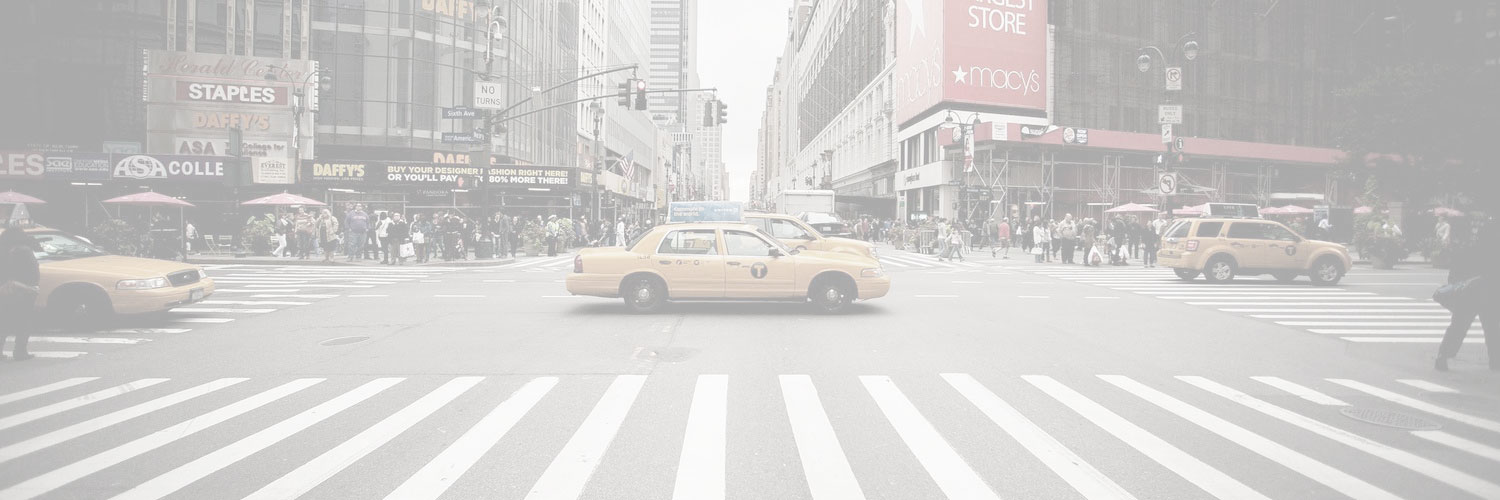
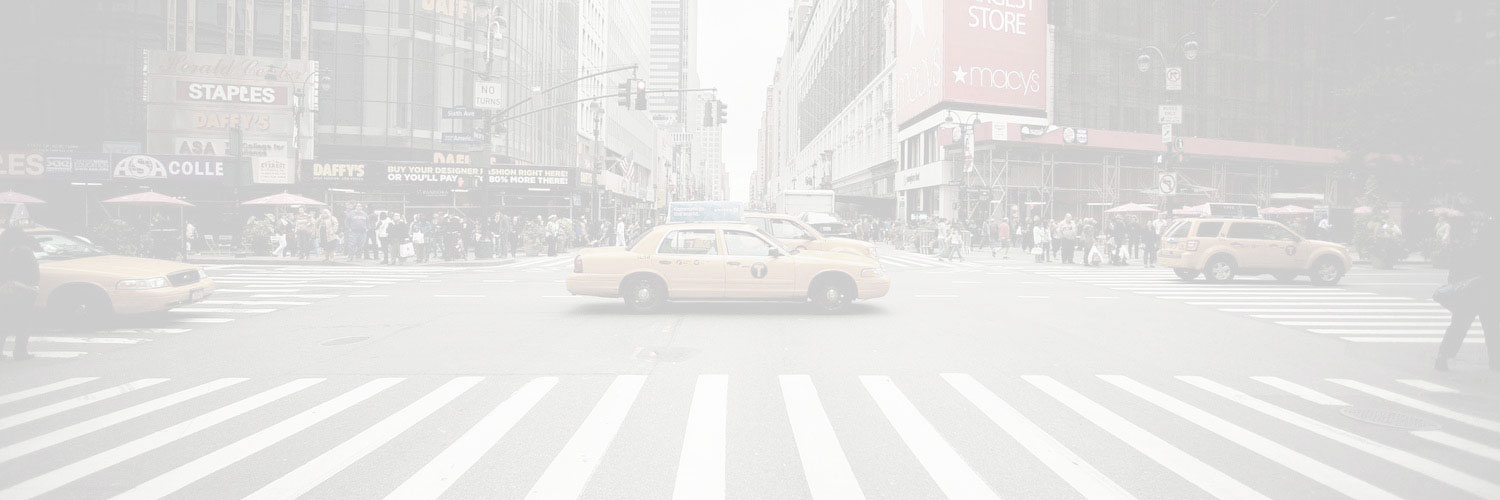
Adds additional resturant info

diff --git a/src/newApp.js b/src/newApp.js
@@ -11,32 +11,51 @@ var LunchPicker = React.createClass({
 		    "name": "Choza",
 		    "address": "66 Madison Avenue, New York, NY 10016",
 		    "phone": "212-213-0708",
-		    "type": "Mexican"
+		    "type": "Mexican",
+		    "link": "http://www.seamless.com/food-delivery/choza-new-york-city.18160.r?a=966"
 		},
 		{
 		    "name": "Dos Toros",
 		    "address": "295 Park Ave South, New York, NY 10010",
 		    "phone": "347-946-6225",
-		    "type": "Mexican"
+		    "type": "Mexican",
+		    "link": "http://www.dostoros.com/"
 		},
 		{
 		    "name": "DiDi Dumpling",
 		    "address": "38 Lexington Avenue, New York, NY 10010",
 		    "phone": "212-466-6618",
-		    "type": "Chinese"
+		    "type": "Chinese",
+		    "link": "http://www.dididumplings.com/"
 		},
 		{
 		    "name": "Mamagyro",
 		    "address": "820 Broadway, New York, NY 10003",
 		    "phone": "212-477-1717",
-		    "type": "Greek"
+		    "type": "Greek",
+		    "link": "http://www.seamless.com/food-delivery/mamagyro-new-york-city.17908.r"
 
 		},
 		{
 		    "name": "Tiffin Wallah",
 		    "address": "127 E 28th Street, New York, NY 10016",
 		    "phone": "212-685-7301",
-		    "type": "Indian"
+		    "type": "Indian",
+		    "link": "http://www.seamless.com/food-delivery/tiffin-wallah-new-york-city.8113.r?a=966"
+		},
+		{
+		    "name": "Sophie's Cuban Cuisine",
+		    "address": "28 E 23rd Street, New York, NY 10010",
+		    "phone": "212-260-8884",
+		    "type": "Cuban",
+		    "link": "http://www.seamless.com/food-delivery/sophie-cuban-cuisine-23rd-st-new-york-city.11353.r?a=966"
+		},
+		{
+		    "name": "Chop't",
+		    "address": "18 E 23rd St, New York, NY 10010",
+		    "phone": "646-755-7837",
+		    "type": "Salad Bar",
+		    "link": "http://www.seamless.com/food-delivery/chop-t-creative-salad-co-flatiron-new-york-city.22115.r"
 		}
 		];
 
@@ -56,34 +75,42 @@ var LunchPicker = React.createClass({
 
 	render: function() {
 		var randomRestaurant = this.state.randomRestaurant;
-		var randomRestaurantInfo;
+		var restaurantInfo;
 		if(randomRestaurant) {
-			randomRestaurantInfo = (
-				<div className="restaurant-name-wrapper">
-	                <h2>{randomRestaurant.name}</h2>
-	                <p>Address: <span>{randomRestaurant.address}</span></p>
-	                <p>Phone: <span>{randomRestaurant.phone}</span></p>
-	                <p>Type: <span>{randomRestaurant.type}</span></p>
+			restaurantInfo = (
+				<div className="restaurant-info">
+	                <h2 className="restaurant-name">{randomRestaurant.name}</h2>
+	                <p><strong className="info-label">Address:</strong> <span>{randomRestaurant.address}</span></p>
+	                <p><strong className="info-label">Phone:</strong> <span>{randomRestaurant.phone}</span></p>
+	                <p><strong className="info-label">Type:</strong> <span>{randomRestaurant.type}</span></p>
+	                <p><a className="order-link" href={randomRestaurant.link} target="_blank">ORDER THAT SHIT!</a></p>
 				</div>
 			);
 		}
 
 		return (
-			<div className="container">
+			<div className="container lunchpicker-container">
 				<div className="row">
 					<div className="col-xs-12">
-						<div className="button-wrapper">
-							<h1>What the f*%$ should ATTCK eat for lunch!?</h1>
-							<button onClick={this.generateRandomRestaurant }>Find me something</button>
+						<div className="wtf-wrapper">
+							<h1>
+								What the f&amp;*k should <br />
+								<img src="img/attck_logo.png" className="attck-logo" /> <br />
+								eat for lunch!?
+							</h1>
+							<button className="btn" onClick={this.generateRandomRestaurant }>
+								Find me something
+							</button>
 						</div>
-						{ randomRestaurantInfo }
+						<div className="restaurant-info-wrapper">
+							{ restaurantInfo }
+						</div>
 					</div>
 				</div>
 			</div>
 		);
 	}
 });
-
 
 React.render (
 	<LunchPicker />,

diff --git a/css/style.css b/css/style.css
@@ -69,57 +69,31 @@ article, aside, details, figcaption, figure, footer, header, hgroup, main, menu,
 }
 
 /* line 1, ../sass/_global.scss */
-.attck-logo {
-  margin: 10px 0;
+body {
+  background: url("../img/taxis_1500x500_desat.jpg") no-repeat;
+  background-size: cover;
 }
 
-/* line 5, ../sass/_global.scss */
+/* line 6, ../sass/_global.scss */
 .btn {
   background-color: #222;
   color: #fff;
 }
-/* line 9, ../sass/_global.scss */
+/* line 10, ../sass/_global.scss */
 .btn:active, .btn:focus, .btn:hover {
   color: #fff;
 }
-/* line 15, ../sass/_global.scss */
+/* line 16, ../sass/_global.scss */
 .btn:hover {
   background-color: #ffcc05;
 }
 
-/* line 20, ../sass/_global.scss */
-.wtf-wrapper {
-  text-align: center;
-}
-
-/* line 24, ../sass/_global.scss */
+/* line 21, ../sass/_global.scss */
 .hide {
   display: none;
 }
 
-/* line 28, ../sass/_global.scss */
-.lunchpicker-container {
-  margin: 100px 0;
-}
-
-/* line 32, ../sass/_global.scss */
-.restaurant-info-wrapper {
-  text-align: center;
-  margin-top: 40px;
-}
-/* line 36, ../sass/_global.scss */
-.restaurant-info-wrapper .restaurant-name {
-  display: inline-block;
-  border-bottom: 2px solid black;
-  padding-bottom: 4px;
-}
-
-/* line 44, ../sass/_global.scss */
-.order-link {
-  cursor: pointer;
-}
-
-/* line 50, ../sass/_global.scss */
+/* line 27, ../sass/_global.scss */
 a:focus,
 .btn:focus,
 .btn:active:focus,
@@ -128,6 +102,39 @@ a:focus,
   -webkit-box-shadow: none !important;
   -moz-box-shadow: none !important;
   box-shadow: none !important;
+}
+
+/* line 37, ../sass/_global.scss */
+.lunchpicker-container {
+  margin-top: 100px;
+}
+/* line 40, ../sass/_global.scss */
+.lunchpicker-container .wtf-wrapper {
+  color: #000;
+  text-align: center;
+}
+/* line 44, ../sass/_global.scss */
+.lunchpicker-container .wtf-wrapper .attck-logo {
+  margin: 10px 0;
+}
+/* line 49, ../sass/_global.scss */
+.lunchpicker-container .restaurant-info-wrapper {
+  text-align: center;
+  margin-top: 40px;
+}
+/* line 53, ../sass/_global.scss */
+.lunchpicker-container .restaurant-info-wrapper .order-link {
+  cursor: pointer;
+  font-size: 20px;
+  font-weight: 700;
+  letter-spacing: 1px;
+  line-height: 30px;
+}
+/* line 61, ../sass/_global.scss */
+.lunchpicker-container .restaurant-info-wrapper .restaurant-name {
+  display: inline-block;
+  border-bottom: 2px solid black;
+  padding-bottom: 4px;
 }
 
 @font-face {

diff --git a/sass/_global.scss b/sass/_global.scss
@@ -1,5 +1,6 @@
-.attck-logo {
-	margin: 10px 0;
+body {
+	background: url('../img/taxis_1500x500_desat.jpg') no-repeat;
+	background-size: cover;
 }
 
 .btn {
@@ -17,32 +18,8 @@
 	}
 }
 
-.wtf-wrapper {
-	text-align: center;
-}
-
 .hide {
     display: none;
-}
-
-.lunchpicker-container {
-	margin: 100px 0;
-}
-
-.restaurant-info-wrapper {
-	text-align: center;
-	margin-top: 40px;
-
-	.restaurant-name {
-		display: inline-block;
-		border-bottom: 2px solid black;
-		padding-bottom: 4px;
-	}
-}
-
-
-.order-link {
-	cursor: pointer;
 }
 
 // This overrides Bootstrap's blue glow on focus. Need to use !important tags here to override native Bootstrap styles.
@@ -55,4 +32,36 @@ a:focus,
 	-webkit-box-shadow: none !important;
 	-moz-box-shadow: none !important;
 	box-shadow: none !important;
+}
+
+.lunchpicker-container {
+	margin-top: 100px;
+
+	.wtf-wrapper {
+		color: $black;
+		text-align: center;
+
+		.attck-logo {
+			margin: 10px 0;
+		}
+	}
+
+	.restaurant-info-wrapper {
+		text-align: center;
+		margin-top: 40px;
+
+		.order-link {
+			cursor: pointer;
+			font-size: 20px;
+			font-weight: 700;
+			letter-spacing: 1px;
+			line-height: 30px;
+		}
+
+		.restaurant-name {
+			display: inline-block;
+			border-bottom: 2px solid black;
+			padding-bottom: 4px;
+		}
+	}
 }

diff --git a/app.html b/app.html
@@ -2,6 +2,8 @@
 	<head>
 		<title>What the f&amp;*k should ATTCK eat for lunch!?</title>
 
+	    <link href='http://fonts.googleapis.com/css?family=Montserrat:400,700' rel='stylesheet' type='text/css'>
+
 		<link rel="stylesheet" type="text/css" href="https://maxcdn.bootstrapcdn.com/bootstrap/3.3.5/css/bootstrap.min.css" />
 		<link rel="stylesheet" type="text/css" href="css/style.css" />
 
@@ -12,7 +14,6 @@
 	</head>
 
 	<body>
-	    <div id="example"></div>
 
 		<script type="text/jsx" src="src/newApp.js">
 		</script>

diff --git a/sass/_variables.scss b/sass/_variables.scss
@@ -1,6 +1,7 @@
 // Colors
 
 $attckyellow: #ffcc05;
+$black: #000;
 $darkgray: #666;
 $softblack: #222;
 $white: #fff;
